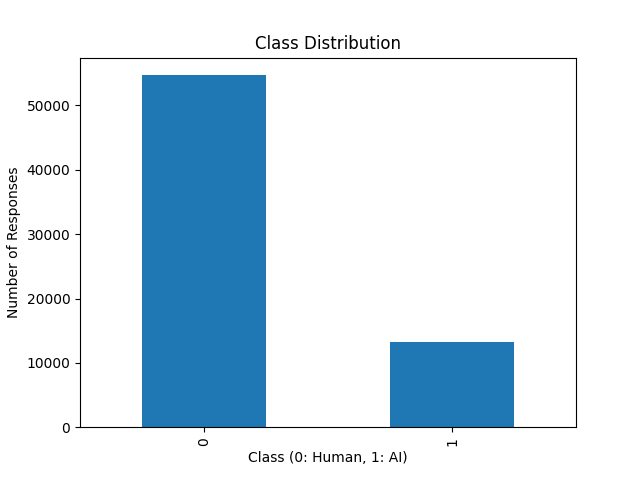
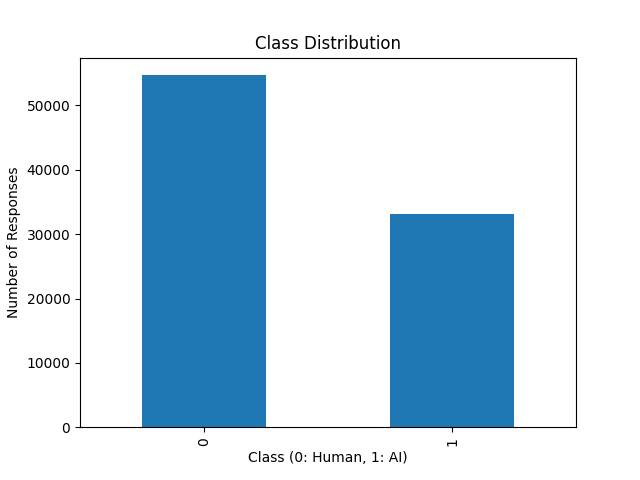
added code for zero shot detection method

Changed region(s): [[0.5938, 0.4375, 0.8125, 0.7188]]

diff --git a/Scripts/zeroshotbatchconvert.py b/Scripts/zeroshotbatchconvert.py
@@ -1,0 +1,64 @@
+import pandas as pd
+import json
+from pathlib import Path
+
+# Config
+csv_path = "data/output/updated_combined_dataset_no_duplicates.csv"
+output_dir = Path("data/zeroshot_batch_requests")
+output_dir.mkdir(parents=True, exist_ok=True)
+
+model = "gpt-4o-mini-2024-07-18"
+
+# Load CSV
+df = pd.read_csv(csv_path)
+total_rows = len(df)
+
+# Chunking rules
+first_chunk_size = 5_000
+other_chunk_size = 5_000
+
+def create_request(row, idx):
+    system_msg = {
+        "role": "system",
+        "content": "You are a linguistic analyst evaluating whether a Quora answer was written by a human or AI. Answer with only 'Human' or 'AI'."
+    }
+    user_msg = {
+        "role": "user",
+        "content": f"Question: {row['question']}\nAnswer: {row['answer']}\n\nIs this response written by a human or by an AI?"
+    }
+
+    return {
+        "custom_id": f"request-{idx}",
+        "method": "POST",
+        "url": "/v1/chat/completions",
+        "body": {
+            "model": "gpt-4o-mini",  # or gpt-4-turbo / gpt-3.5-turbo
+            "messages": [system_msg, user_msg],
+            "temperature": 0,
+            "max_tokens": 10
+        }
+    }
+
+# Split and write chunks
+chunk_start = 0
+chunk_id = 0
+
+while chunk_start < total_rows:
+    if chunk_id == 0:
+        chunk_size = first_chunk_size
+    else:
+        chunk_size = other_chunk_size
+
+    chunk_end = min(chunk_start + chunk_size, total_rows)
+    chunk_df = df.iloc[chunk_start:chunk_end]
+
+    output_path = output_dir / f"requests_chunk_{chunk_id:02}.jsonl"
+
+    with open(output_path, "w", encoding="utf-8") as f:
+        for idx, row in chunk_df.iterrows():
+            request = create_request(row, idx + chunk_start)  # preserve global index
+            f.write(json.dumps(request) + "\n")
+
+    print(f"Saved chunk {chunk_id} ({chunk_end - chunk_start} rows) to {output_path}")
+    chunk_start += chunk_size
+    chunk_id += 1

diff --git a/Scripts/parse_batch_results.py b/Scripts/parse_batch_results.py
@@ -1,0 +1,52 @@
+#!/usr/bin/env python3
+
+import json
+import pandas as pd
+from pathlib import Path
+
+# File paths
+results_path = "data/completed_zero_shot/1.jsonl"
+output_csv = "data/output/parsed_results.csv"
+
+# Container for parsed outputs
+parsed_rows = []
+
+# Parse each line
+with open(results_path, "r", encoding="utf-8") as f:
+    for line in f:
+        entry = json.loads(line)
+
+        custom_id = entry.get("custom_id")
+        response = entry.get("response", {})
+        body = response.get("body", {})
+        choices = body.get("choices", [])
+
+        if choices:
+            answer = choices[0]["message"]["content"].strip()
+        else:
+            answer = "NO_RESPONSE"
+
+        parsed_rows.append({
+            "custom_id": custom_id,
+            "chatgpt_prediction": answer
+        })
+
+# Convert to DataFrame and save
+df = pd.DataFrame(parsed_rows)
+df.to_csv(output_csv, index=False)
+print(f"✅ Saved parsed results to {output_csv}")
+
+# Add index column to original data
+original_df = pd.read_csv("data/output/updated_combined_dataset_no_duplicates.csv")
+original_df["custom_id"] = ["request-" + str(i) for i in range(len(original_df))]
+
+# Load predictions
+pred_df = pd.read_csv("data/output/parsed_results.csv")
+
+# Merge
+merged_df = pd.merge(original_df, pred_df, on="custom_id", how="left")
+merged_df["is_correct"] = merged_df["label"].str.lower() == merged_df["chatgpt_prediction"].str.lower()
+
+# Save merged results
+merged_df.to_csv("data/output/final_evaluation.csv", index=False)
+print("✅ Merged predictions with original labels and saved evaluation file.")

diff --git a/Scripts/evaluate_predicitons.py b/Scripts/evaluate_predicitons.py
@@ -1,0 +1,43 @@
+import pandas as pd
+from sklearn.metrics import classification_report, confusion_matrix
+
+# Load data
+df = pd.read_csv("data/output/zero_shot_results.csv", encoding="ISO-8859-1", low_memory=False)
+
+# Drop rows with missing or blank predictions
+df = df[df["chatgpt_prediction"].notna()]
+df = df[df["chatgpt_prediction"].astype(str).str.strip() != ""]
+
+# Normalize prediction
+def map_prediction(pred):
+    pred = str(pred).strip().lower()
+    if pred == "human":
+        return 0
+    elif pred == "ai":
+        return 1
+    return None
+
+df["predicted_label"] = df["chatgpt_prediction"].apply(map_prediction)
+
+# Drop invalid predictions
+df = df[df["predicted_label"].notna()]
+
+df["label"] = pd.to_numeric(df["label"], errors="coerce").astype("Int64")
+df["predicted_label"] = pd.to_numeric(df["predicted_label"], errors="coerce").astype("Int64")
+
+
+df = df.dropna(subset=["label", "predicted_label"])
+
+y_true = df["label"].astype(int)
+y_pred = df["predicted_label"].astype(int)
+
+print(f" Evaluating {len(df)} rows.")
+
+# Report
+from sklearn.metrics import classification_report, confusion_matrix
+
+print("\nClassification Report:")
+print(classification_report(y_true, y_pred, target_names=["Human", "AI"]))
+
+print("Confusion Matrix:")
+print(confusion_matrix(y_true, y_pred))

diff --git a/Scripts/count.py b/Scripts/count.py
@@ -3,7 +3,7 @@
 import pandas as pd
 
 # Load the combined dataset
-file_path = "updated_combined_dataset.csv"  # Replace with your file name
+file_path = "data/input/updated_combined_dataset.csv"
 
 df = pd.read_csv(file_path)
 
@@ -11,7 +11,7 @@ df = pd.read_csv(file_path)
 df_unique = df.drop_duplicates(subset="answer", keep="first")  # `keep="first"` retains the first occurrence
 
 # Save the updated dataset to a new file
-output_file = "updated_combined_dataset_no_duplicates.csv"
+output_file = "data/output/updated_combined_dataset_no_duplicates.csv"
 df_unique.to_csv(output_file, index=False)
 
 # Print results
@@ -19,7 +19,7 @@ print(f"Original dataset had {len(df)} entries.")
 print(f"Dataset after removing duplicates has {len(df_unique)} entries.")
 print(f"Updated dataset saved to {output_file}.")
 # Load the dataset
-df = pd.read_csv("combined_dataset_no_duplicates.csv")
+df = pd.read_csv("data/input/combined_dataset_no_duplicates.csv")
 
 # Count the occurrences of each class
 class_counts = df["label"].value_counts()
